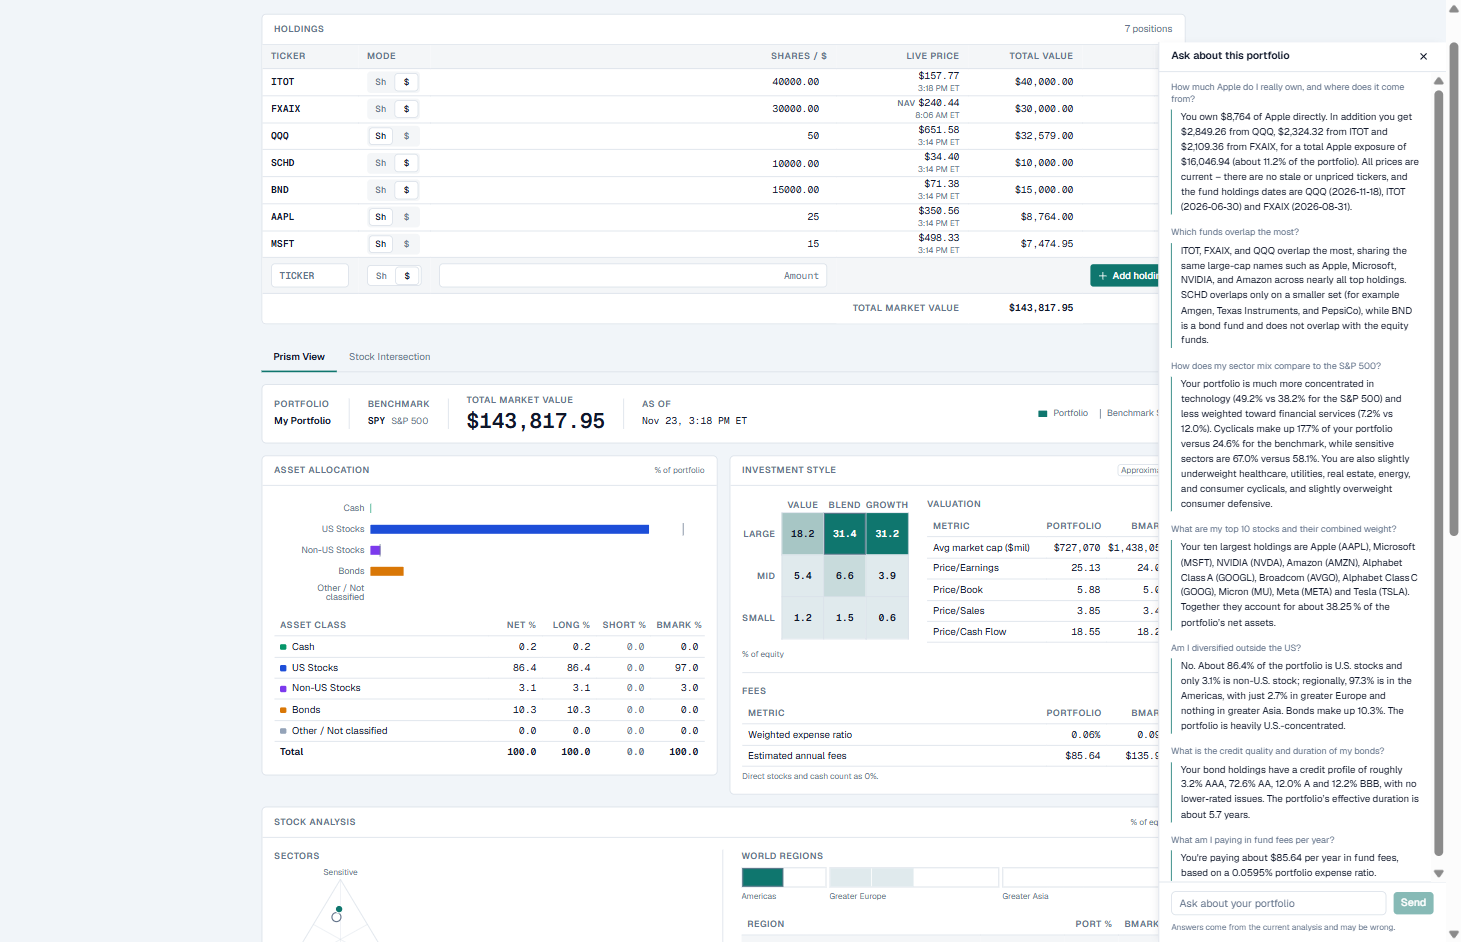
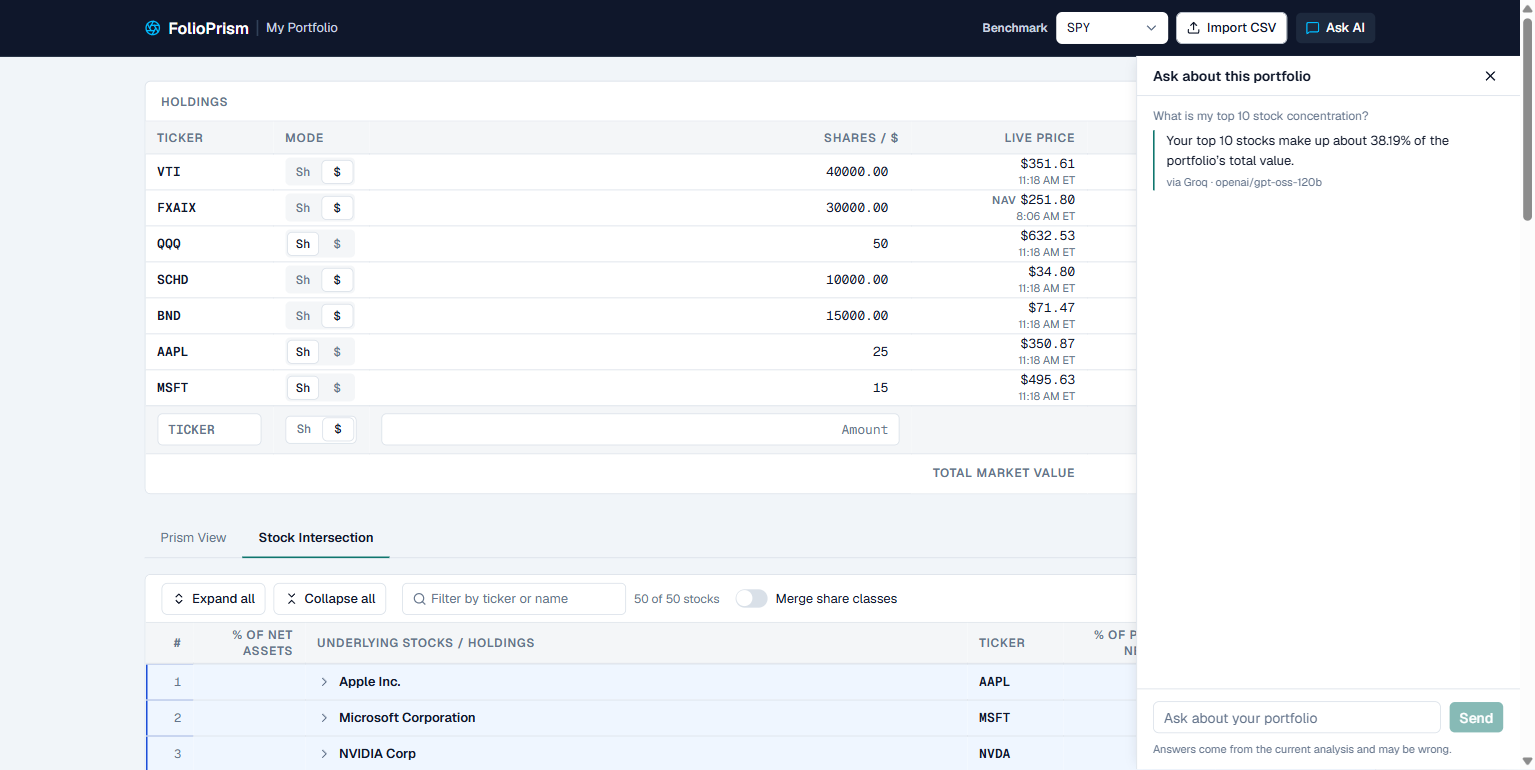
Show the answering AI provider and make the OpenRouter fallback opt-in

diff --git a/tests/chat.test.ts b/tests/chat.test.ts
@@ -1,7 +1,7 @@
 import Decimal from 'decimal.js';
 import { afterEach, beforeEach, describe, expect, it, vi } from 'vitest';
 import { buildAnalysis } from '../src/lib/analysis';
-import { AssistantBusyError, BUSY_MESSAGE, askAssistant, chatEnabled } from '../src/lib/chat/llm';
+import { AssistantBusyError, BUSY_FALLBACK_OFF, BUSY_MESSAGE, askAssistant, chatEnabled } from '../src/lib/chat/llm';
 import { CHAT_TOP_STOCKS, chatMessages, chatSnapshot } from '../src/lib/chat/snapshot';
 import type { HoldingRow } from '../src/lib/holdings';
 import { curatedAggregates, curatedFund, curatedStock, mockQuote } from '../src/lib/market/mock';
@@ -195,6 +195,7 @@ describe('askAssistant', () => {
   beforeEach(() => {
     vi.stubEnv('GROQ_API_KEY', 'test-groq');
     vi.stubEnv('OPENROUTER_API_KEY', 'test-or');
+    vi.stubEnv('CHAT_FALLBACK', 'on');
     vi.spyOn(console, 'warn').mockImplementation(() => {});
     vi.spyOn(console, 'info').mockImplementation(() => {});
   });
@@ -208,7 +209,7 @@ describe('askAssistant', () => {
   it('answers from Groq openai/gpt-oss-120b', async () => {
     const fetchMock = vi.fn(async () => completion('{"reply":"Top 10 is 31.2%"}', 200, { prompt_tokens: 1234 }));
     vi.stubGlobal('fetch', fetchMock);
-    expect(await askAssistant(messages)).toBe('Top 10 is 31.2%');
+    expect(await askAssistant(messages)).toEqual({ reply: 'Top 10 is 31.2%', provider: 'Groq', model: 'openai/gpt-oss-120b' });
     expect(fetchMock).toHaveBeenCalledTimes(1);
     const [url, init] = fetchMock.mock.calls[0] as unknown as [string, RequestInit];
     expect(url).toBe(GROQ_URL);
@@ -222,7 +223,7 @@ describe('askAssistant', () => {
       url === GROQ_URL ? completion('', 429) : completion('{"reply":"From OpenRouter"}'),
     );
     vi.stubGlobal('fetch', fetchMock);
-    expect(await askAssistant(messages)).toBe('From OpenRouter');
+    expect((await askAssistant(messages)).reply).toBe('From OpenRouter');
     expect(fetchMock).toHaveBeenCalledTimes(2);
     const [url, init] = fetchMock.mock.calls[1] as unknown as [string, RequestInit];
     expect(url).toBe(OPENROUTER_URL);
@@ -237,14 +238,14 @@ describe('askAssistant', () => {
       if (url === GROQ_URL) throw new TypeError('fetch failed');
       return completion('{"reply":"From OpenRouter"}');
     }));
-    expect(await askAssistant(messages)).toBe('From OpenRouter');
+    expect((await askAssistant(messages)).reply).toBe('From OpenRouter');
   });
 
   it('falls back when Groq returns invalid JSON content', async () => {
     vi.stubGlobal('fetch', vi.fn(async (url: string) =>
       url === GROQ_URL ? completion('not json') : completion('{"reply":"From OpenRouter"}'),
     ));
-    expect(await askAssistant(messages)).toBe('From OpenRouter');
+    expect((await askAssistant(messages)).reply).toBe('From OpenRouter');
   });
 
   it('throws AssistantBusyError when every provider fails', async () => {
@@ -258,7 +259,7 @@ describe('askAssistant', () => {
     vi.stubEnv('GROQ_API_KEY', '');
     const fetchMock = vi.fn(async () => completion('{"reply":"From OpenRouter"}'));
     vi.stubGlobal('fetch', fetchMock);
-    expect(await askAssistant(messages)).toBe('From OpenRouter');
+    expect((await askAssistant(messages)).reply).toBe('From OpenRouter');
     expect(fetchMock).toHaveBeenCalledTimes(1);
     expect((fetchMock.mock.calls[0] as unknown as [string])[0]).toBe(OPENROUTER_URL);
   });
@@ -269,6 +270,51 @@ describe('askAssistant', () => {
     vi.stubGlobal('fetch', fetchMock);
     await expect(askAssistant(messages)).rejects.toBeInstanceOf(AssistantBusyError);
     expect(fetchMock).toHaveBeenCalledTimes(1);
+  });
+
+  it('is busy with a hint and never calls OpenRouter when fallback is off', async () => {
+    vi.stubEnv('CHAT_FALLBACK', 'off');
+    const fetchMock = vi.fn(async () => completion('', 429));
+    vi.stubGlobal('fetch', fetchMock);
+    const error = await askAssistant(messages).catch((e: unknown) => e);
+    expect(error).toBeInstanceOf(AssistantBusyError);
+    expect((error as Error).message).toBe(BUSY_FALLBACK_OFF);
+    expect(fetchMock).toHaveBeenCalledTimes(1);
+    expect((fetchMock.mock.calls[0] as unknown as [string])[0]).toBe(GROQ_URL);
+  });
+
+  it('defaults to off when CHAT_FALLBACK is unset', async () => {
+    vi.stubEnv('CHAT_FALLBACK', '');
+    const fetchMock = vi.fn(async () => completion('', 429));
+    vi.stubGlobal('fetch', fetchMock);
+    await expect(askAssistant(messages)).rejects.toBeInstanceOf(AssistantBusyError);
+    expect(fetchMock).toHaveBeenCalledTimes(1);
+  });
+
+  it('answers from OpenRouter with fallback off when it is the only configured provider', async () => {
+    vi.stubEnv('CHAT_FALLBACK', 'off');
+    vi.stubEnv('GROQ_API_KEY', '');
+    vi.stubGlobal('fetch', vi.fn(async () => completion('{"reply":"From OpenRouter"}')));
+    expect(await askAssistant(messages)).toMatchObject({ reply: 'From OpenRouter', provider: 'OpenRouter' });
+  });
+
+  it('gives the plain busy message when fallback is off and no second key exists', async () => {
+    vi.stubEnv('CHAT_FALLBACK', 'off');
+    vi.stubEnv('OPENROUTER_API_KEY', '');
+    vi.stubGlobal('fetch', vi.fn(async () => completion('', 429)));
+    const error = await askAssistant(messages).catch((e: unknown) => e);
+    expect((error as Error).message).toBe(BUSY_MESSAGE);
+  });
+
+  it('treats an invalid CHAT_FALLBACK as off and warns once', async () => {
+    vi.stubEnv('CHAT_FALLBACK', 'sometimes');
+    const fetchMock = vi.fn(async () => completion('', 429));
+    vi.stubGlobal('fetch', fetchMock);
+    await expect(askAssistant(messages)).rejects.toBeInstanceOf(AssistantBusyError);
+    await expect(askAssistant(messages)).rejects.toBeInstanceOf(AssistantBusyError);
+    expect(fetchMock).toHaveBeenCalledTimes(2);
+    const warned = vi.mocked(console.warn).mock.calls.filter((c) => String(c[0]).includes('CHAT_FALLBACK'));
+    expect(warned).toHaveLength(1);
   });
 
   it('never puts a key in a request body', async () => {

diff --git a/src/lib/chat/llm.ts b/src/lib/chat/llm.ts
@@ -3,18 +3,21 @@ import type { ChatMessage } from './snapshot';
 
 export const BUSY_MESSAGE = 'The assistant is busy, please try again in a minute.';
 
-/** Every configured provider failed (D-02). */
+export const BUSY_FALLBACK_OFF = 'The assistant is busy. Fallback to another provider is off (CHAT_FALLBACK).';
+
+/** Every provider we were allowed to try failed (D-02); the hint says a second provider is configured but unused. */
 export class AssistantBusyError extends Error {
-  constructor() {
-    super(BUSY_MESSAGE);
+  constructor(fallbackHint = false) {
+    super(fallbackHint ? BUSY_FALLBACK_OFF : BUSY_MESSAGE);
   }
 }
 
-/** Groq first, OpenRouter's free model as the fallback (D-02). */
+/** Groq first; OpenRouter's free model is used as the fallback only when CHAT_FALLBACK=on (D-02). */
 const PROVIDERS = [
-  { name: 'groq', url: 'https://api.groq.com/openai/v1/chat/completions', model: 'openai/gpt-oss-120b', key: 'GROQ_API_KEY', extra: {} },
+  { name: 'groq', label: 'Groq', url: 'https://api.groq.com/openai/v1/chat/completions', model: 'openai/gpt-oss-120b', key: 'GROQ_API_KEY', extra: {} },
   {
     name: 'openrouter',
+    label: 'OpenRouter',
     url: 'https://openrouter.ai/api/v1/chat/completions',
     model: 'nvidia/nemotron-3.5-super-vl:free',
     key: 'OPENROUTER_API_KEY',
@@ -76,11 +79,33 @@ function parseJson(text: unknown): unknown {
   }
 }
 
-/** Ask each configured provider in order; throws AssistantBusyError when all fail. */
-export async function askAssistant(messages: ChatMessage[]): Promise<string> {
-  for (const provider of configuredProviders()) {
-    const reply = await ask(provider, messages);
-    if (reply !== null) return reply;
+const warnedValues = new Set<string>();
+
+/** CHAT_FALLBACK is off unless exactly "on"; an unknown value warns once and counts as off. */
+export function fallbackEnabled(): boolean {
+  const value = process.env.CHAT_FALLBACK || 'off';
+  if (value !== 'on' && value !== 'off' && !warnedValues.has(value)) {
+    warnedValues.add(value);
+    console.warn('CHAT_FALLBACK must be off or on; treating it as off');
   }
-  throw new AssistantBusyError();
+  return value === 'on';
+}
+
+export interface Answer {
+  reply: string;
+  provider: string;
+  model: string;
+}
+
+/** Ask the first configured provider, then the rest only when fallback is on; throws AssistantBusyError when all fail. */
+export async function askAssistant(messages: ChatMessage[]): Promise<Answer> {
+  const configured = configuredProviders();
+  const allowed = fallbackEnabled() ? configured : configured.slice(0, 1);
+  for (const provider of allowed) {
+    const reply = await ask(provider, messages);
+    if (reply === null) continue;
+    if (provider !== configured[0]) console.info('chat fell back from', configured[0].name, 'to', provider.name);
+    return { reply, provider: provider.label, model: provider.model };
+  }
+  throw new AssistantBusyError(allowed.length < configured.length);
 }

diff --git a/tests/chat-route.test.ts b/tests/chat-route.test.ts
@@ -33,6 +33,7 @@ vi.mock('../src/lib/load-analysis', () => ({ loadAnalysis: vi.fn(async () => ana
 const { POST } = await import('../src/app/api/chat/route');
 
 const BUSY = 'The assistant is busy, please try again in a minute.';
+const BUSY_HINT = 'The assistant is busy. Fallback to another provider is off (CHAT_FALLBACK).';
 
 function ask(body: unknown): Request {
   return new Request('http://localhost:8420/api/chat', {
@@ -59,17 +60,25 @@ describe('POST /api/chat', () => {
     vi.restoreAllMocks();
   });
 
-  it('answers a valid question with { reply }', async () => {
+  it('answers a valid question with reply, provider and model', async () => {
     vi.stubGlobal('fetch', vi.fn(async () => completion('{"reply":"Top 10 is 10.00%"}')));
     const res = await POST(ask({ question: 'what is my top 10 stock concentration?' }));
     expect(res.status).toBe(200);
     const text = await res.text();
-    expect(JSON.parse(text)).toEqual({ reply: 'Top 10 is 10.00%' });
+    expect(JSON.parse(text)).toEqual({ reply: 'Top 10 is 10.00%', provider: 'Groq', model: 'openai/gpt-oss-120b' });
     expect(text).not.toContain('test-groq');
     expect(text).not.toContain('test-or');
   });
 
+  it('returns 503 with the fallback hint when Groq fails and fallback is off', async () => {
+    vi.stubGlobal('fetch', vi.fn(async () => completion('', 429)));
+    const res = await POST(ask({ question: 'what is my top 10 stock concentration?' }));
+    expect(res.status).toBe(503);
+    expect(await res.json()).toEqual({ error: BUSY_HINT });
+  });
+
   it('returns 503 with the busy message when every provider fails', async () => {
+    vi.stubEnv('CHAT_FALLBACK', 'on');
     vi.stubGlobal('fetch', vi.fn(async () => completion('', 429)));
     const res = await POST(ask({ question: 'what is my top 10 stock concentration?' }));
     expect(res.status).toBe(503);

diff --git a/src/lib/chat/ask.ts b/src/lib/chat/ask.ts
@@ -2,14 +2,19 @@ export const UNREACHABLE = 'Could not reach the assistant. Check that the app is
 export const NO_REPLY = 'The assistant returned no answer. Please try again.';
 
 /** POST one question to /api/chat and turn the response into exactly one of a reply or an error. */
-export async function askChat(question: string, mergeShareClasses: boolean): Promise<{ reply?: string; error?: string }> {
+export async function askChat(
+  question: string,
+  mergeShareClasses: boolean,
+): Promise<{ reply?: string; provider?: string; model?: string; error?: string }> {
   const res = await fetch('/api/chat', {
     method: 'POST',
     headers: { 'content-type': 'application/json' },
     body: JSON.stringify({ question, mergeShareClasses }),
   }).catch(() => null);
   if (!res) return { error: UNREACHABLE };
-  const body: { error?: unknown; reply?: unknown } = (await res.json().catch(() => null)) ?? {};
+  const body: { error?: unknown; reply?: unknown; provider?: unknown; model?: unknown } = (await res.json().catch(() => null)) ?? {};
   if (!res.ok) return { error: typeof body.error === 'string' ? body.error : UNREACHABLE };
-  return typeof body.reply === 'string' ? { reply: body.reply } : { error: NO_REPLY };
+  if (typeof body.reply !== 'string') return { error: NO_REPLY };
+  const { provider, model } = body;
+  return typeof provider === 'string' && typeof model === 'string' ? { reply: body.reply, provider, model } : { reply: body.reply };
 }

diff --git a/src/components/chat/chat-panel.tsx b/src/components/chat/chat-panel.tsx
@@ -6,12 +6,15 @@ import { Button } from '@/components/ui/button';
 import { Input } from '@/components/ui/input';
 import { CAPTION } from '@/components/styles';
 import { askChat } from '@/lib/chat/ask';
+import { providerLabel } from '@/lib/chat/label';
 
 const SUGGESTION = 'What is my top 10 stock concentration?';
 
 interface Turn {
   question: string;
   reply?: string;
+  provider?: string;
+  model?: string;
   error?: string;
 }
 
@@ -44,9 +47,16 @@ function TurnView({ turn }: { turn: Turn }) {
         </p>
       )}
       {turn.reply !== undefined && (
-        <p data-chat="answer" className="border-l-2 border-primary pl-3 text-[13px] leading-5 whitespace-pre-wrap text-foreground">
-          {turn.reply}
-        </p>
+        <div className="border-l-2 border-primary pl-3">
+          <p data-chat="answer" className="text-[13px] leading-5 whitespace-pre-wrap text-foreground">
+            {turn.reply}
+          </p>
+          {turn.provider && turn.model && (
+            <p data-chat="provider" className="mt-1 text-[11px] leading-4 text-muted-foreground">
+              {providerLabel(turn.provider, turn.model)}
+            </p>
+          )}
+        </div>
       )}
       {turn.error !== undefined && (
         <p data-chat="error" className="border-l-2 border-destructive pl-3 text-[13px] leading-5 text-destructive">

diff --git a/src/app/api/chat/route.ts b/src/app/api/chat/route.ts
@@ -1,5 +1,5 @@
 import { z } from 'zod';
-import { AssistantBusyError, BUSY_MESSAGE, askAssistant, chatEnabled } from '@/lib/chat/llm';
+import { AssistantBusyError, askAssistant, chatEnabled } from '@/lib/chat/llm';
 import { chatMessages, chatSnapshot } from '@/lib/chat/snapshot';
 import { rejectCrossSite } from '@/lib/guard';
 import { loadAnalysis } from '@/lib/load-analysis';
@@ -18,9 +18,9 @@ export async function POST(request: Request) {
   if (!parsed.success) return Response.json({ error: parsed.error.issues[0].message }, { status: 400 });
   const snapshot = chatSnapshot(await loadAnalysis(parsed.data.mergeShareClasses));
   try {
-    return Response.json({ reply: await askAssistant(chatMessages(parsed.data.question, snapshot)) });
+    return Response.json(await askAssistant(chatMessages(parsed.data.question, snapshot)));
   } catch (error) {
-    if (error instanceof AssistantBusyError) return Response.json({ error: BUSY_MESSAGE }, { status: 503 });
+    if (error instanceof AssistantBusyError) return Response.json({ error: error.message }, { status: 503 });
     throw error;
   }
 }

diff --git a/tests/chat-ask.test.ts b/tests/chat-ask.test.ts
@@ -16,6 +16,11 @@ describe('askChat', () => {
     expect(await askChat('q', false)).toEqual({ reply: 'Hi' });
   });
 
+  it('carries provider and model on success', async () => {
+    respond('{"reply":"Hi","provider":"Groq","model":"openai/gpt-oss-120b"}', 200);
+    expect(await askChat('q', false)).toEqual({ reply: 'Hi', provider: 'Groq', model: 'openai/gpt-oss-120b' });
+  });
+
   it('returns NO_REPLY for 2xx without a reply', async () => {
     respond('{}', 200);
     expect(await askChat('q', false)).toEqual({ error: NO_REPLY });

diff --git a/tests/chat-label.test.ts b/tests/chat-label.test.ts
@@ -1,0 +1,9 @@
+import { describe, expect, it } from 'vitest';
+import { providerLabel } from '../src/lib/chat/label';
+
+describe('providerLabel', () => {
+  it('names the provider and model', () => {
+    expect(providerLabel('Groq', 'openai/gpt-oss-120b')).toBe('via Groq · openai/gpt-oss-120b');
+    expect(providerLabel('OpenRouter', 'nvidia/nemotron-3.5-super-vl:free')).toBe('via OpenRouter · nvidia/nemotron-3.5-super-vl:free');
+  });
+});

diff --git a/src/lib/chat/label.ts b/src/lib/chat/label.ts
@@ -1,0 +1,4 @@
+/** Muted caption under a reply, for example "via Groq · openai/gpt-oss-120b". */
+export function providerLabel(provider: string, model: string): string {
+  return `via ${provider} · ${model}`;
+}

diff --git a/README.md b/README.md
@@ -57,13 +57,14 @@ Put one or both keys in `.env` in the project root (it is gitignored):
 ```
 GROQ_API_KEY=...        # primary: Groq free tier, openai/gpt-oss-120b
 OPENROUTER_API_KEY=...  # fallback: an OpenRouter free (:free) model
+CHAT_FALLBACK=off       # off (default) or on; see below
 ```
 
 The app container reads them from the root `.env`, whether started by `./scripts/start.sh` or by a manual compose run. Keys exported only in the shell are not passed in. Keys stay on the server. Without keys the chat panel is hidden and everything else works.
 
 ### What leaves your machine
 
-Each question sends a summary of the current analysis to the chat provider: holdings with dollar values, the top 25 underlying stocks and the Prism View. With real holdings, that is your portfolio. FolioPrism tries Groq first and falls back to OpenRouter without asking, so lock down both before using the chat on a personal stack.
+Each question sends a summary of the current analysis to the chat provider: holdings with dollar values, the top 25 underlying stocks and the Prism View. With real holdings, that is your portfolio. FolioPrism uses only the first configured provider (Groq if its key is set). It tries OpenRouter after a Groq failure only when `CHAT_FALLBACK=on` (default `off`; any other value counts as off). Each reply shows which provider answered, as "via Groq · openai/gpt-oss-120b". Lock down every provider whose key you set before using the chat on a personal stack.
 
 **Groq** (console.groq.com → Settings)
 
@@ -74,7 +75,7 @@ Each question sends a summary of the current analysis to the chat provider: hold
 
 - Turn off "Allow free endpoints that train on request data" and "Allow free endpoints that publish prompts". The second lets free providers publish prompts to public datasets.
 - Keep paid-endpoint training, the 1% data discount and input/output logging off.
-- Or leave `OPENROUTER_API_KEY` unset. The chat then uses Groq only and shows a busy message instead of falling back.
+- Or leave `OPENROUTER_API_KEY` unset, or keep `CHAT_FALLBACK=off` with a Groq key set. The chat then never reaches OpenRouter and shows a busy message when Groq fails.
 
 Provider settings change over time; check them against each provider's current docs.
 
